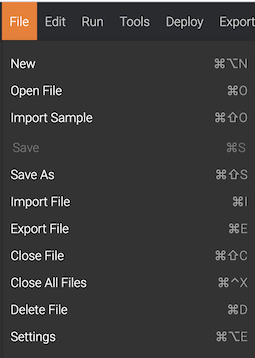
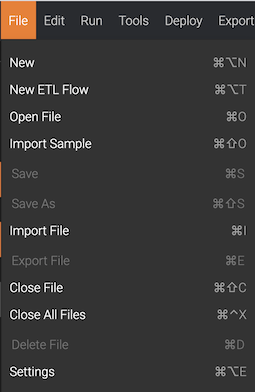
Update image for the changed File menu.

diff --git a/en/streaming-integrator/docs/develop/streaming-integrator-studio-overview.md b/en/streaming-integrator/docs/develop/streaming-integrator-studio-overview.md
@@ -85,7 +85,10 @@ The **File** menu includes the following options.
 ![File menu](../images/streaming-integrator-studio-overview/FileMenu.png)
 
 -   **New**  
-    Click this to open a new untitled Siddhi file.  
+    Click this to open a new untitled Siddhi file. For more information, see the [Creating an ETL Application via SI Tooling tutorial](../examples/create-etl-application-via-tooling.md).
+    
+-   **New ETL Flow**
+    Click this to create a new ETL application via the ETL wizard. For instructions, 
     
 -   **Open File** 
     Click this to open a Siddhi file that is already saved in the `workspace` directory of the Streaming Integrator 
